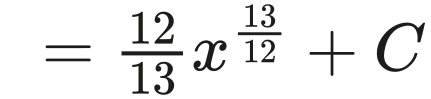
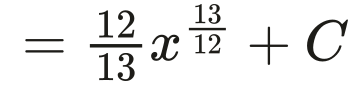
Add files via upload

diff --git a/eq/INDEX-expl-deux.md b/eq/INDEX-expl-deux.md
@@ -1,0 +1,104 @@
+| File | Mode | PNG px | Source |
+|---|---|---|---|
+| `expl-deux-010.png` | inline | 257x77 | `\(\scriptsize 7+4\left(2^3\right)\)` |
+| `expl-deux-020.png` | inline | 172x61 | `\(\scriptsize 2^3=8\)` |
+| `expl-deux-030.png` | inline | 517x71 | `\(\scriptsize f(x)=4x^2+8x+5\)` |
+| `expl-deux-040.png` | inline | 570x113 | `\(\scriptsize f'(x)=\lim\limits_{h\to0}\frac{f(x+h)-f(x)}{h}\)` |
+| `expl-deux-050.png` | inline | 225x66 | `\(\scriptsize f(x+h)\)` |
+| `expl-deux-060.png` | inline | 194x66 | `\(\scriptsize (x+h)\)` |
+| `expl-deux-070.png` | inline | 45x34 | `\(\scriptsize x\)` |
+| `expl-deux-080.png` | inline | 918x71 | `\(\scriptsize f(x+h)=4(x+h)^2+8(x+h)+5\)` |
+| `expl-deux-090.png` | inline | 1077x71 | `\(\scriptsize f(x+x)=4x^2+8xh+4h^2+8x+8h+5\)` |
+| `expl-deux-100.png` | inline | 122x66 | `\(\scriptsize f(x)\)` |
+| `expl-deux-110.png` | inline | 406x66 | `\(\scriptsize f(x+h)-f(x)\)` |
+| `expl-deux-120.png` | inline | 1343x77 | `\(\scriptsize =\left(4x^2+8xh+4h^2+8x+8h+5\right)-\left(4x^2+8x+5\right)\)` |
+| `expl-deux-130.png` | inline | 458x61 | `\(\scriptsize =8xh+4h^2+8h\)` |
+| `expl-deux-140.png` | inline | 45x49 | `\(\scriptsize h\)` |
+| `expl-deux-150.png` | inline | 45x49 | `\(\scriptsize h\)` |
+| `expl-deux-160.png` | inline | 397x61 | `\(\scriptsize 8xh+4h^2+8h\)` |
+| `expl-deux-170.png` | inline | 306x53 | `\(\scriptsize 8x+4h+8\)` |
+| `expl-deux-180.png` | inline | 45x49 | `\(\scriptsize h\)` |
+| `expl-deux-190.png` | inline | 173x51 | `\(\scriptsize 8x+8\)` |
+| `expl-deux-200.png` | inline | 173x51 | `\(\scriptsize 8x+8\)` |
+| `expl-deux-210.png` | inline | 628x71 | `\(\scriptsize 4(x+h)^2+8(x+h)+5\)` |
+| `expl-deux-220.png` | inline | 603x71 | `\(\scriptsize f'(x)=8xh+4h^2+8h\)` |
+| `expl-deux-230.png` | inline | 860x71 | `\(\scriptsize f'(x)=4(0)^2+8(x+1)=8x+8\)` |
+| `expl-deux-240.png` | inline | 99x57 | `\(\scriptsize 4x^2\)` |
+| `expl-deux-250.png` | inline | 74x48 | `\(\scriptsize 8x\)` |
+| `expl-deux-260.png` | inline | 41x48 | `\(\scriptsize 5\)` |
+| `expl-deux-270.png` | inline | 99x57 | `\(\scriptsize 4x^2\)` |
+| `expl-deux-280.png` | inline | 41x47 | `\(\scriptsize 4\)` |
+| `expl-deux-290.png` | inline | 70x57 | `\(\scriptsize x^2\)` |
+| `expl-deux-300.png` | inline | 70x57 | `\(\scriptsize x^2\)` |
+| `expl-deux-310.png` | inline | 290x61 | `\(\scriptsize 2x^{2-1}=2x\)` |
+| `expl-deux-320.png` | inline | 99x57 | `\(\scriptsize 4x^2\)` |
+| `expl-deux-330.png` | inline | 286x66 | `\(\scriptsize 4(2x)=8x\)` |
+| `expl-deux-340.png` | inline | 74x48 | `\(\scriptsize 8x\)` |
+| `expl-deux-350.png` | inline | 41x48 | `\(\scriptsize 8\)` |
+| `expl-deux-360.png` | inline | 70x57 | `\(\scriptsize x^1\)` |
+| `expl-deux-370.png` | inline | 70x57 | `\(\scriptsize x^1\)` |
+| `expl-deux-380.png` | inline | 421x61 | `\(\scriptsize 1x^{1-1}=1x^0=1\)` |
+| `expl-deux-390.png` | inline | 74x48 | `\(\scriptsize 8x\)` |
+| `expl-deux-400.png` | inline | 41x48 | `\(\scriptsize 8\)` |
+| `expl-deux-410.png` | inline | 41x48 | `\(\scriptsize 5\)` |
+| `expl-deux-420.png` | inline | 41x48 | `\(\scriptsize 0\)` |
+| `expl-deux-430.png` | inline | 511x51 | `\(\scriptsize 8x+8+0=8x+8\)` |
+| `expl-deux-440.png` | inline | 379x66 | `\(\scriptsize f'(x)=8x+8\)` |
+| `expl-deux-450.png` | inline | 570x113 | `\(\scriptsize f'(x)=\lim\limits_{h\to0}\frac{f(x+h)-f(x)}{h}\)` |
+| `expl-deux-460.png` | inline | 799x116 | `\(\scriptsize =\lim\limits_{h\to0}\frac{4(x+h)^2+8(x+h)+5-(4x^2+8x+5)}{h}\)` |
+| `expl-deux-470.png` | inline | 861x110 | `\(\scriptsize =\lim\limits_{h\to0}\frac{4x^2+8xh+4h^2+8x+8h+5-4x^2-8x-5}{h}\)` |
+| `expl-deux-480.png` | inline | 419x110 | `\(\scriptsize =\lim\limits_{h\to0}\frac{8xh+4h^2+8h}{h}\)` |
+| `expl-deux-490.png` | inline | 496x96 | `\(\scriptsize =\lim\limits_{h\to0}\left(8x+4h+8\right)\)` |
+| `expl-deux-500.png` | inline | 234x51 | `\(\scriptsize =8x+8\)` |
+| `expl-deux-510.png` | inline | 570x113 | `\(\scriptsize f'(x)=\lim\limits_{h\to0}\frac{f(x+h)-f(x)}{h}\)` |
+| `expl-deux-520.png` | inline | 799x116 | `\(\scriptsize = \lim\limits_{h\to0} \frac{4(x+h)^2+8(x+h)+5-(4x^2+8x+5)}{h}\)` |
+| `expl-deux-530.png` | inline | 225x66 | `\(\scriptsize f(x+h)\)` |
+| `expl-deux-540.png` | inline | 861x110 | `\(\scriptsize =\lim\limits_{h\to0}\frac{4x^2+8xh+4h^2+8x+8h+5-4x^2-8x-5}{h}\)` |
+| `expl-deux-550.png` | inline | 419x110 | `\(\scriptsize =\lim\limits_{h\to0}\frac{8xh+4h^2+8h}{h}\)` |
+| `expl-deux-560.png` | inline | 496x96 | `\(\scriptsize =\lim\limits_{h\to0}\left(8x+4h+8\right)\)` |
+| `expl-deux-570.png` | inline | 234x51 | `\(\scriptsize =8x+8\)` |
+| `expl-deux-580.png` | inline | 596x77 | `\(\scriptsize f(x)=\left(x^2+7\right)\left(x-4\right)\)` |
+| `expl-deux-590.png` | inline | 214x66 | `\(\scriptsize (0,-28)\)` |
+| `expl-deux-600.png` | inline | 508x66 | `\(\scriptsize y-y_1=m\left(x-x_1\right)\)` |
+| `expl-deux-610.png` | inline | 563x66 | `\(\scriptsize y-(-28)=m(x-0)\)` |
+| `expl-deux-620.png` | inline | 329x58 | `\(\scriptsize y+28=mx\)` |
+| `expl-deux-630.png` | inline | 329x58 | `\(\scriptsize y=mx-28\)` |
+| `expl-deux-640.png` | inline | 214x66 | `\(\scriptsize (0,-28)\)` |
+| `expl-deux-650.png` | inline | 548x66 | `\(\scriptsize g(x)h'(x)+g'(x)h(x)\)` |
+| `expl-deux-660.png` | inline | 352x71 | `\(\scriptsize g(x)=x^2+7\)` |
+| `expl-deux-670.png` | inline | 332x66 | `\(\scriptsize h(x)=x-4\)` |
+| `expl-deux-680.png` | inline | 133x66 | `\(\scriptsize g'(x)\)` |
+| `expl-deux-690.png` | inline | 70x57 | `\(\scriptsize x^2\)` |
+| `expl-deux-700.png` | inline | 41x48 | `\(\scriptsize 7\)` |
+| `expl-deux-710.png` | inline | 70x57 | `\(\scriptsize x^2\)` |
+| `expl-deux-720.png` | inline | 290x61 | `\(\scriptsize 2x^{2-1}=2x\)` |
+| `expl-deux-730.png` | inline | 41x48 | `\(\scriptsize 0\)` |
+| `expl-deux-740.png` | inline | 41x48 | `\(\scriptsize 7\)` |
+| `expl-deux-750.png` | inline | 41x48 | `\(\scriptsize 0\)` |
+| `expl-deux-760.png` | inline | 510x66 | `\(\scriptsize g'(x)=2x+0=2x\)` |
+| `expl-deux-770.png` | inline | 139x66 | `\(\scriptsize h'(x)\)` |
+| `expl-deux-780.png` | inline | 45x34 | `\(\scriptsize x\)` |
+| `expl-deux-790.png` | inline | 41x47 | `\(\scriptsize 4\)` |
+| `expl-deux-800.png` | inline | 45x34 | `\(\scriptsize x\)` |
+| `expl-deux-810.png` | inline | 596x84 | `\(\scriptsize \left(x^1\right)'=1x^{1-1}=x^0=1\)` |
+| `expl-deux-820.png` | inline | 41x48 | `\(\scriptsize 0\)` |
+| `expl-deux-830.png` | inline | 41x47 | `\(\scriptsize 4\)` |
+| `expl-deux-840.png` | inline | 41x48 | `\(\scriptsize 0\)` |
+| `expl-deux-850.png` | inline | 450x66 | `\(\scriptsize h'(x)=1-0=1\)` |
+| `expl-deux-860.png` | inline | 753x66 | `\(\scriptsize f'(x)=g(x)h'(x)+g'(x)h(x)\)` |
+| `expl-deux-870.png` | inline | 728x77 | `\(\scriptsize \;=\left(x^2+7\right)(1)+(2x)(x-4)\)` |
+| `expl-deux-880.png` | inline | 536x61 | `\(\scriptsize \;=x^2+7+2x^2-8x\)` |
+| `expl-deux-890.png` | inline | 408x61 | `\(\scriptsize \;=3x^2-8x+7\)` |
+| `expl-deux-900.png` | inline | 719x71 | `\(\scriptsize f'(0)=3(0)^2-8(0)+7=7\)` |
+| `expl-deux-910.png` | inline | 307x59 | `\(\scriptsize y=7x-28\)` |
+| `expl-deux-920.png` | inline | 242x66 | `\(\scriptsize f'(0)=7\)` |
+| `expl-deux-930.png` | inline | 202x52 | `\(\scriptsize 7x-28\)` |
+| `expl-deux-940.png` | inline | 141x66 | `\(\scriptsize f'(x)\)` |
+| `expl-deux-950.png` | inline | 137x66 | `\(\scriptsize f'(0)\)` |
+| `expl-deux-960.png` | inline | 400x77 | `\(\scriptsize \left(x^2+7\right)(x-4)\)` |
+| `expl-deux-970.png` | inline | 214x66 | `\(\scriptsize (0,-28)\)` |
+| `expl-deux-980.png` | inline | 202x52 | `\(\scriptsize 7x-28\)` |
+| `expl-deux-990.png` | inline | 400x77 | `\(\scriptsize \left(x^2+7\right)(x-4)\)` |
+| `expl-deux-1000.png` | inline | 488x61 | `\(\scriptsize x^3-4x^2+7x-28\)` |
+| `expl-deux-1010.png` | inline | 817x71 | `\(\scriptsize 3x^{3-1}-4(2)x^{2-1}+7(1)x^{1-1}-0\)` |
+| `expl-deux-1020.png` | inline | 408x61 | `\(\scriptsize \;=3x^2-8x+7\)` |

diff --git a/eq/INDEX-expl-revisit.md b/eq/INDEX-expl-revisit.md
@@ -1,17 +1,17 @@
 | File | Mode | PNG px | Source |
 |---|---|---|---|
-| `expl-revisit-010.png` | inline | 657x159 | `\(\displaystyle \int \left(x^{\frac{1}{12}} - 7\sin(x)\right)\,dx\)
+| `expl-revisit-010.png` | inline | 570x136 | `\(\scriptsize\displaystyle \int \left(x^{\frac{1}{12}} - 7\sin(x)\right)\,dx\)
 ` |
-| `expl-revisit-020.png` | inline | 537x113 | `\(\frac{x^1}{12}+\frac{\left(\frac{1}{1}\right)}{12}+1+C\)` |
-| `expl-revisit-030.png` | inline | 493x90 | `\(\ =\frac{x}{12}+\frac{13}{12}+C\)` |
-| `expl-revisit-040.png` | inline | 397x90 | `\(\ =\frac{x+13}{12}+C\)` |
-| `expl-revisit-050.png` | inline | 341x148 | `\(\frac{x^{\left(\frac{1}{12}+1\right)}}{\frac{1}{12}+1}+C\)` |
-| `expl-revisit-060.png` | inline | 364x140 | `\(\ =\frac{x^{\frac{13}{12}}}{\frac{13}{12}}+C\)` |
-| `expl-revisit-070.png` | inline | 431x99 | `\(\ =\frac{12}{13}x^{\frac{13}{12}}+C\)` |
-| `expl-revisit-080.png` | inline | 531x121 | `\(x^{\frac{1}{12}}+\frac{1}{\frac{1}{12}}+1+C\)` |
-| `expl-revisit-090.png` | inline | 504x80 | `\(\ =x^{\frac{1}{12}}+13+C\)` |
-| `expl-revisit-100.png` | inline | 431x160 | `\(x^{\left(\frac{1}{12}+\frac{1}{\left(\frac{1}{12}+1+C\right)}\right)}\)` |
-| `expl-revisit-110.png` | inline | 529x165 | `\(\ =x^{\left(\frac{1}{12}+\frac{1}{\left(\frac{13+12C}{12}\right)}\right)}\)` |
-| `expl-revisit-120.png` | inline | 441x82 | `\(\ =x^{\left(\frac{1}{12}+\frac{12}{13+12C}\right)}\)` |
-| `expl-revisit-130.png` | inline | 662x107 | `\(\ =x^{\left(\frac{13+12C}{12(13+12C)}+\frac{144}{12(13+12C)}\right)}\)` |
-| `expl-revisit-140.png` | inline | 383x83 | `\(\ =x^{\left(\frac{157+12C}{156+144C}\right)}\)` |
+| `expl-revisit-020.png` | inline | 458x97 | `\(\scriptsize \frac{x^1}{12}+\frac{\left(\frac{1}{1}\right)}{12}+1+C\)` |
+| `expl-revisit-030.png` | inline | 406x78 | `\(\scriptsize \;=\frac{x}{12}+\frac{13}{12}+C\)` |
+| `expl-revisit-040.png` | inline | 325x78 | `\(\scriptsize \;=\frac{x+13}{12}+C\)` |
+| `expl-revisit-050.png` | inline | 291x127 | `\(\scriptsize \frac{x^{\left(\frac{1}{12}+1\right)}}{\frac{1}{12}+1}+C\)` |
+| `expl-revisit-060.png` | inline | 297x121 | `\(\scriptsize \;=\frac{x^{\frac{13}{12}}}{\frac{13}{12}}+C\)` |
+| `expl-revisit-070.png` | inline | 354x85 | `\(\scriptsize \;=\frac{12}{13}x^{\frac{13}{12}}+C\)` |
+| `expl-revisit-080.png` | inline | 453x104 | `\(\scriptsize x^{\frac{1}{12}}+\frac{1}{\frac{1}{12}}+1+C\)` |
+| `expl-revisit-090.png` | inline | 416x69 | `\(\scriptsize \;=x^{\frac{1}{12}}+13+C\)` |
+| `expl-revisit-100.png` | inline | 368x137 | `\(\scriptsize x^{\left(\frac{1}{12}+\frac{1}{\left(\frac{1}{12}+1+C\right)}\right)}\)` |
+| `expl-revisit-110.png` | inline | 437x141 | `\(\scriptsize \;=x^{\left(\frac{1}{12}+\frac{1}{\left(\frac{13+12C}{12}\right)}\right)}\)` |
+| `expl-revisit-120.png` | inline | 363x71 | `\(\scriptsize \;=x^{\left(\frac{1}{12}+\frac{12}{13+12C}\right)}\)` |
+| `expl-revisit-130.png` | inline | 550x93 | `\(\scriptsize \;=x^{\left(\frac{13+12C}{12(13+12C)}+\frac{144}{12(13+12C)}\right)}\)` |
+| `expl-revisit-140.png` | inline | 313x72 | `\(\scriptsize \;=x^{\left(\frac{157+12C}{156+144C}\right)}\)` |

diff --git a/eq/INDEX-disc31-sol.md b/eq/INDEX-disc31-sol.md
@@ -1,0 +1,47 @@
+| File | Mode | PNG px | Source |
+|---|---|---|---|
+| `disc31-sol-010.png` | inline | 842x212 | `(wiris)` |
+| `disc31-sol-020.png` | inline | 136x76 | `(wiris)` |
+| `disc31-sol-030.png` | inline | 1396x130 | `(wiris)` |
+| `disc31-sol-040.png` | inline | 252x110 | `(wiris)` |
+| `disc31-sol-050.png` | inline | 1573x120 | `(wiris)` |
+| `disc31-sol-060.png` | inline | 2027x127 | `(wiris)` |
+| `disc31-sol-070.png` | inline | 1131x112 | `(wiris)` |
+| `disc31-sol-080.png` | inline | 466x110 | `(wiris)` |
+| `disc31-sol-090.png` | inline | 625x110 | `(wiris)` |
+| `disc31-sol-100.png` | inline | 320x103 | `(wiris)` |
+| `disc31-sol-110.png` | inline | 1593x212 | `(wiris)` |
+| `disc31-sol-120.png` | inline | 1391x212 | `(wiris)` |
+| `disc31-sol-130.png` | inline | 961x132 | `(wiris)` |
+| `disc31-sol-140.png` | inline | 491x142 | `(wiris)` |
+| `disc31-sol-150.png` | inline | 346x147 | `(wiris)` |
+| `disc31-sol-160.png` | inline | 279x120 | `(wiris)` |
+| `disc31-sol-170.png` | inline | 138x90 | `(wiris)` |
+| `disc31-sol-180.png` | inline | 961x132 | `(wiris)` |
+| `disc31-sol-190.png` | inline | 611x144 | `(wiris)` |
+| `disc31-sol-200.png` | inline | 502x144 | `(wiris)` |
+| `disc31-sol-210.png` | inline | 852x144 | `(wiris)` |
+| `disc31-sol-220.png` | inline | 579x144 | `(wiris)` |
+| `disc31-sol-230.png` | inline | 579x144 | `(wiris)` |
+| `disc31-sol-240.png` | inline | 605x166 | `(wiris)` |
+| `disc31-sol-250.png` | inline | 394x116 | `(wiris)` |
+| `disc31-sol-260.png` | inline | 782x107 | `(wiris)` |
+| `disc31-sol-270.png` | inline | 1014x133 | `(wiris)` |
+| `disc31-sol-280.png` | inline | 671x146 | `(wiris)` |
+| `disc31-sol-290.png` | inline | 545x146 | `(wiris)` |
+| `disc31-sol-300.png` | inline | 924x146 | `(wiris)` |
+| `disc31-sol-310.png` | inline | 612x125 | `(wiris)` |
+| `disc31-sol-320.png` | inline | 612x122 | `(wiris)` |
+| `disc31-sol-330.png` | inline | 637x144 | `(wiris)` |
+| `disc31-sol-340.png` | inline | 431x116 | `(wiris)` |
+| `disc31-sol-350.png` | inline | 854x107 | `(wiris)` |
+| `disc31-sol-360.png` | inline | 724x82 | `(wiris)` |
+| `disc31-sol-370.png` | inline | 422x81 | `(wiris)` |
+| `disc31-sol-380.png` | inline | 1569x94 | `(wiris)` |
+| `disc31-sol-390.png` | inline | 1832x94 | `(wiris)` |
+| `disc31-sol-400.png` | inline | 724x82 | `(wiris)` |
+| `disc31-sol-410.png` | inline | 478x121 | `(wiris)` |
+| `disc31-sol-420.png` | inline | 1037x145 | `(wiris)` |
+| `disc31-sol-430.png` | inline | 1057x167 | `(wiris)` |
+| `disc31-sol-440.png` | inline | 1847x145 | `(wiris)` |
+| `disc31-sol-450.png` | inline | 750x140 | `(wiris)` |

diff --git a/eq/INDEX-wk3.md b/eq/INDEX-wk3.md
@@ -1,0 +1,20 @@
+| File | Mode | PNG px | Source |
+|---|---|---|---|
+| `wk3-010.png` | inline | 612x89 | `(wiris)` |
+| `wk3-020.png` | inline | 612x89 | `(wiris)` |
+| `wk3-030.png` | block | 706x148 | `2(x+y)^{2-1}\cdot \frac{d}{dx}(x+y)` |
+| `wk3-040.png` | block | 842x85 | `2(x+y)^1\cdot (1x^{1-1}+1y^{1-1}y')` |
+| `wk3-050.png` | block | 554x85 | `2(x+y)^1\cdot(1+y')` |
+| `wk3-060.png` | block | 586x82 | `1x^{1-1}-1y^{1-1}y'+0` |
+| `wk3-070.png` | block | 298x77 | `1-y'+0` |
+| `wk3-080.png` | block | 931x85 | `2(x+y)^1\cdot(1+y')=1-y'+0` |
+| `wk3-090.png` | block | 735x80 | `2(x+y)(1+y')=1-y'` |
+| `wk3-100.png` | inline | 735x76 | `(wiris)` |
+| `wk3-110.png` | inline | 905x73 | `(wiris)` |
+| `wk3-120.png` | inline | 957x73 | `(wiris)` |
+| `wk3-130.png` | inline | 940x76 | `(wiris)` |
+| `wk3-140.png` | inline | 419x106 | `(wiris)` |
+| `wk3-150.png` | inline | 1113x116 | `(wiris)` |
+| `wk3-160.png` | inline | 584x76 | `(wiris)` |
+| `wk3-170.png` | inline | 568x91 | `(wiris)` |
+| `wk3-180.png` | inline | 398x91 | `(wiris)` |

diff --git a/eq/INDEX-disc31-remind.md b/eq/INDEX-disc31-remind.md
@@ -1,6 +1,6 @@
 | File | Mode | PNG px | Source |
 |---|---|---|---|
-| `disc31-remind-010.png` | inline | 256x107 | `\(\lim\limits_{x\to c} f(x)\)` |
-| `disc31-remind-020.png` | inline | 132x76 | `\(\displaystyle f(c)\)` |
-| `disc31-remind-030.png` | inline | 466x107 | `\(\lim\limits_{x\to c} f(x)=f(c)\)` |
-| `disc31-remind-040.png` | block | 486x154 | `\[\frac{f(c+h)-f(c)}{h}\]` |
+| `disc31-remind-010.png` | inline | 219x92 | `\(\scriptsize \lim\limits_{x\to c} f(x)\)` |
+| `disc31-remind-020.png` | inline | 114x66 | `\(\scriptsize f(c)\)` |
+| `disc31-remind-030.png` | inline | 398x92 | `\(\scriptsize \lim\limits_{x\to c} f(x)=f(c)\)` |
+| `disc31-remind-040.png` | block | 415x132 | `\[\scriptsize \frac{f(c+h)-f(c)}{h}\]` |

diff --git a/eq/INDEX-expl.md b/eq/INDEX-expl.md
@@ -1,7 +1,7 @@
 | File | Mode | PNG px | Source |
 |---|---|---|---|
-| `expl-010.png` | inline | 886x171 | `\(\displaystyle F(x)=\begin{cases} \tan(x + 3) &amp; x &lt; -3 \\ e^x - 3 &amp; -3 \le x \end{cases}\)
+| `expl-010.png` | inline | 755x146 | `\(\scriptsize F(x)=\begin{cases} \tan(x + 3) &amp; x &lt; -3 \\ e^x - 3 &amp; -3 \le x \end{cases}\)
 ` |
-| `expl-020.png` | inline | 340x115 | `\(\displaystyle\lim_{x \to -3^-} F(x)\)` |
-| `expl-030.png` | inline | 383x165 | `\(\displaystyle\lim_{x \to -2} \frac{x^2 - 4}{x + 2}\)
+| `expl-020.png` | inline | 370x66 | `\(\scriptsize \lim_{x \to -3^-} F(x)\)` |
+| `expl-030.png` | inline | 257x111 | `\(\scriptsize \lim\limits_{x \to -2} \frac{x^2 - 4}{x + 2}\)
 ` |
